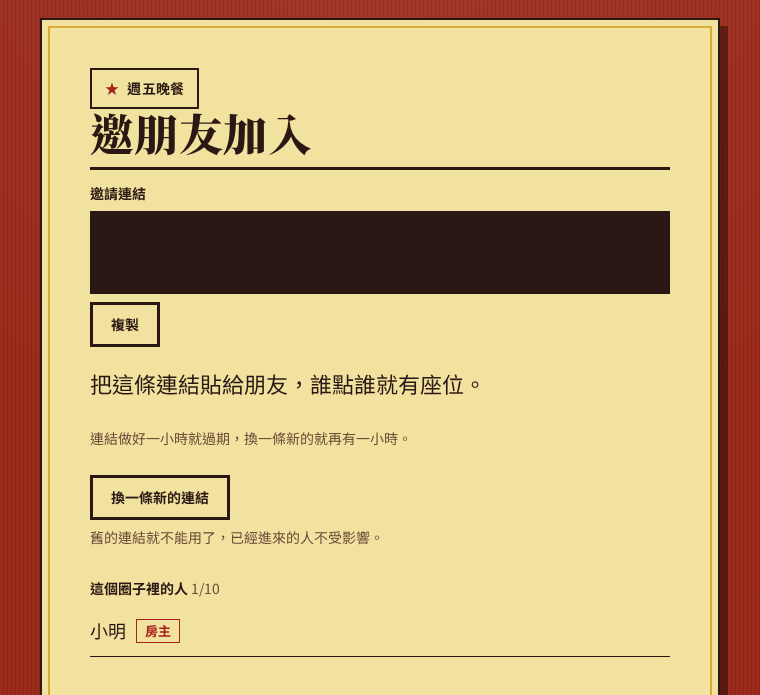
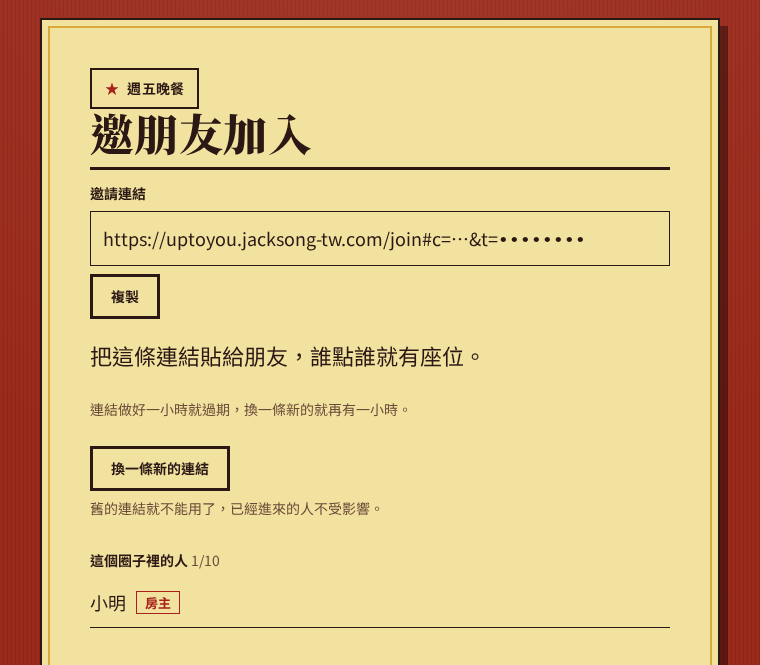
README: the invite step shows a sample link and says what the step does

Changed region(s): [[0.1211, 0.0902, 0.9079, 0.5714], [0.1211, 0.6015, 0.5447, 0.782], [0.1211, 0.812, 0.3026, 0.9323]]

diff --git a/README.md b/README.md
@@ -67,7 +67,7 @@ be checked.
 
    ![Create a circle](docs/tutorial/1-create.png)
 
-3. **Send the invite link** (the link itself is hidden in this picture; it opens a seat for whoever taps it).
+3. **Send the invite link**; a friend who opens it joins the circle.
 
    ![The invite panel](docs/tutorial/2-invite.png)
 

diff --git a/README.zh-TW.md b/README.zh-TW.md
@@ -53,7 +53,7 @@
 
    ![建立圈子](docs/tutorial/1-create.png)
 
-3. **傳邀請連結**（這張圖把連結本身遮起來了；誰點了連結，誰就有座位）。
+3. **把邀請連結傳給朋友**，朋友點開就能加入。
 
    ![邀請畫面](docs/tutorial/2-invite.png)
 
